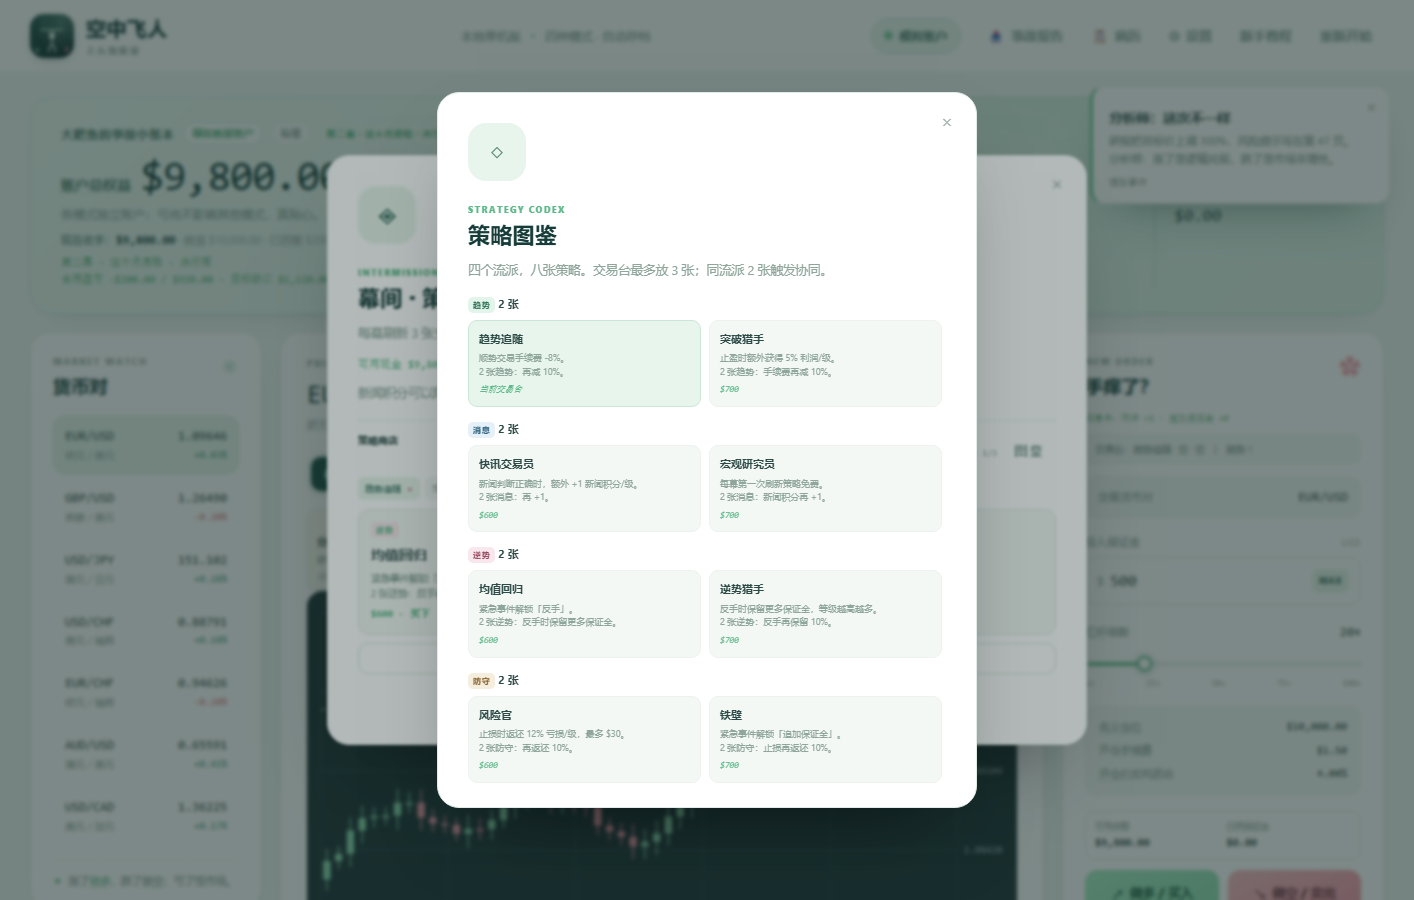
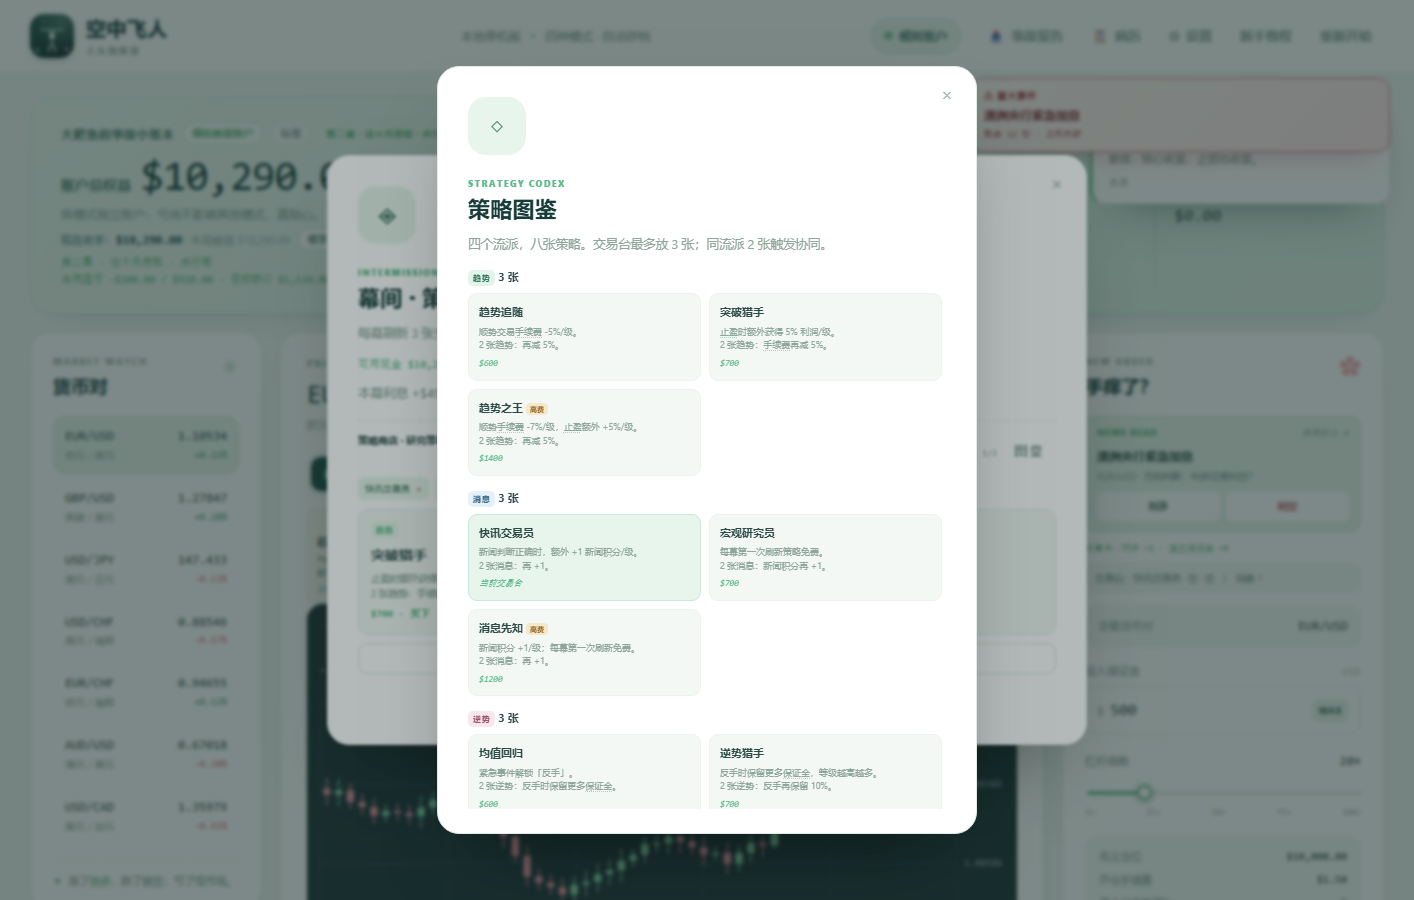
Add shop interest economy, research levels, and high-cost elite strategy pool

diff --git a/engine.js b/engine.js
@@ -181,6 +181,8 @@
         contract.playstyle.shopVisits += 1;
       }
       contract.act = nextAct;
+      contract.shopLevel = Math.min(3, nextAct);
+      if (contract.pendingShop) awardStrategyInterest();
     }
     contract.eventLog = contract.eventLog || [];
     contract.eventLog.push({
@@ -336,21 +338,41 @@
     return strategyDeckCards().filter(card => card.style === style).length;
   }
 
-  function drawStrategyCards(count, exclude = []) {
+  function strategyPrice(card) {
+    if (!card) return 0;
+    const discount = Math.min(300, (Number(state.contract?.newsPoints) || 0) * 50);
+    return Math.max(100, Number(card.cost) - discount);
+  }
+
+  function awardStrategyInterest() {
+    const contract = state.contract;
+    if (!contract || settings.coachMode || contract.interestAct === contract.act) return 0;
+    const interest = Math.min(500, Math.floor((state.cash * 0.05) / 10) * 10);
+    contract.interestAct = contract.act;
+    contract.lastInterest = interest;
+    if (interest <= 0) return 0;
+    state.cash += interest;
+    contract.giftIncome = (Number(contract.giftIncome) || 0) + interest;
+    return interest;
+  }
+
+  function strategyShopPool() {
+    const level = Math.max(1, Math.min(3, Number(state.contract?.shopLevel) || 1));
+    return (D.STRATEGY_CARDS || []).filter(card => {
+      if (level >= 3) return Number(card.tier) >= 2;
+      return Number(card.tier) <= 2;
+    });
+  }
+
+  function drawStrategyCards(count, exclude = [], poolCards = null) {
     const excluded = new Set(exclude);
-    const pool = (D.STRATEGY_CARDS || []).filter(card => !excluded.has(card.id));
+    const pool = (poolCards || D.STRATEGY_CARDS || []).filter(card => !excluded.has(card.id));
     const picked = [];
     while (picked.length < count && pool.length) {
       const index = Math.floor(Math.random() * pool.length);
       picked.push(pool.splice(index, 1)[0].id);
     }
     return picked;
-  }
-
-  function strategyPrice(card) {
-    if (!card) return 0;
-    const discount = Math.min(300, (Number(state.contract?.newsPoints) || 0) * 50);
-    return Math.max(100, Number(card.cost) - discount);
   }
 
   function chooseStartingStrategy(cardId) {
@@ -370,7 +392,7 @@
   function refreshStrategyOffers() {
     const contract = state.contract;
     if (!contract || settings.coachMode) return [];
-    contract.strategyOffers = drawStrategyCards(3, []);
+    contract.strategyOffers = drawStrategyCards(3, [], strategyShopPool());
     contract.strategyBought = false;
     save();
     emit();
@@ -383,7 +405,7 @@
     const cost = strategyFreeReroll() ? 0 : 100;
     if (state.cash < cost) return { ok: false, message: `刷新需要 $${cost}。` };
     state.cash -= cost;
-    contract.strategyOffers = drawStrategyCards(3, []);
+    contract.strategyOffers = drawStrategyCards(3, [], strategyShopPool());
     contract.strategyRerolls = (contract.strategyRerolls || 0) + 1;
     save();
     emit();
@@ -432,28 +454,38 @@
   }
 
   function strategyFeeDiscount() {
-    if (!strategyHasCard('trend-follow')) return 0;
-    const level = strategyLevel('trend-follow');
-    return Math.min(0.25, level * 0.05 + (strategyStyleCount('trend') >= 2 ? 0.05 : 0));
+    let rate = 0;
+    if (strategyHasCard('trend-follow')) rate += strategyLevel('trend-follow') * 0.05;
+    if (strategyHasCard('trend-apex')) rate += strategyLevel('trend-apex') * 0.07;
+    if (strategyStyleCount('trend') >= 2) rate += 0.05;
+    return Math.min(0.3, rate);
   }
 
   function strategyNewsBonus() {
-    if (!strategyHasCard('news-wire')) return 0;
-    return strategyLevel('news-wire') + (strategyStyleCount('news') >= 2 ? 1 : 0);
+    let points = 0;
+    if (strategyHasCard('news-wire')) points += strategyLevel('news-wire');
+    if (strategyHasCard('news-oracle')) points += strategyLevel('news-oracle');
+    if (strategyStyleCount('news') >= 2) points += 1;
+    return points;
   }
 
   function strategyDefenseRate() {
-    if (!strategyHasCard('defense-risk')) return 0;
-    return Math.min(0.4, strategyLevel('defense-risk') * 0.12 + (strategyStyleCount('defense') >= 2 ? 0.1 : 0));
+    let rate = 0;
+    if (strategyHasCard('defense-risk')) rate += strategyLevel('defense-risk') * 0.12;
+    if (strategyHasCard('defense-bunker')) rate += strategyLevel('defense-bunker') * 0.15;
+    if (strategyStyleCount('defense') >= 2) rate += 0.1;
+    return Math.min(0.5, rate);
   }
 
   function strategyTakeProfitBonus() {
-    if (!strategyHasCard('trend-break')) return 0;
-    return strategyLevel('trend-break') * 0.05;
+    let rate = 0;
+    if (strategyHasCard('trend-break')) rate += strategyLevel('trend-break') * 0.05;
+    if (strategyHasCard('trend-apex')) rate += strategyLevel('trend-apex') * 0.05;
+    return rate;
   }
 
   function strategyFreeReroll() {
-    return strategyHasCard('news-macro') && (state.contract?.strategyRerolls || 0) === 0;
+    return (strategyHasCard('news-macro') || strategyHasCard('news-oracle')) && (state.contract?.strategyRerolls || 0) === 0;
   }
 
   function strategyContrarianCount() {
@@ -462,8 +494,10 @@
 
   function strategyReverseKeep() {
     const synergy = strategyStyleCount('contrarian') >= 2 ? 0.1 : 0;
-    if (strategyHasCard('contrarian-fade')) return Math.min(0.85, 0.5 + strategyLevel('contrarian-fade') * 0.1 + synergy);
-    return Math.min(0.85, 0.5 + synergy);
+    let keep = 0.5 + synergy;
+    if (strategyHasCard('contrarian-fade')) keep += strategyLevel('contrarian-fade') * 0.1;
+    if (strategyHasCard('contrarian-ace')) keep += strategyLevel('contrarian-ace') * 0.12;
+    return Math.min(0.9, keep);
   }
 
   function contractGrade() {
@@ -598,6 +632,9 @@
       strategyOffers: [],
       strategyBought: false,
       strategyRerolls: 0,
+      shopLevel: 1,
+      lastInterest: 0,
+      interestAct: 0,
       playstyle: { newsTrades: 0, newsReads: 0, newsMisses: 0, stopCount: 0, longHolds: 0, allIn: 0, smallTrades: 0, shopVisits: 0, shopBuys: 0, blowups: 0 },
       startEquity: account().equity,
       goalAnnounced: false,
@@ -609,7 +646,7 @@
       flags: {}
     };
     if (!settings.coachMode && config.id !== 'free') {
-      state.contract.strategyStartOffers = drawStrategyCards(3, []);
+      state.contract.strategyStartOffers = drawStrategyCards(3, [], (D.STRATEGY_CARDS || []).filter(card => Number(card.tier) === 1));
     }
     state.leverage = Math.min(state.leverage, maxLeverage());
     if (settings.coachMode) {
@@ -677,10 +714,13 @@
       state.contract.strategyStartOffers = Array.isArray(state.contract.strategyStartOffers) ? state.contract.strategyStartOffers : [];
       state.contract.strategyOffers = Array.isArray(state.contract.strategyOffers) ? state.contract.strategyOffers : [];
       if (state.contract.strategyPending && !state.contract.strategyStartOffers.length) {
-        state.contract.strategyStartOffers = drawStrategyCards(3, state.contract.strategyDeck || []);
+        state.contract.strategyStartOffers = drawStrategyCards(3, state.contract.strategyDeck || [], (D.STRATEGY_CARDS || []).filter(card => Number(card.tier) === 1));
       }
       state.contract.strategyBought = !!state.contract.strategyBought;
       state.contract.strategyRerolls = Math.max(0, Number(state.contract.strategyRerolls) || 0);
+      state.contract.shopLevel = Math.max(1, Math.min(3, Math.floor(Number(state.contract.shopLevel) || 1)));
+      state.contract.lastInterest = Math.max(0, Number(state.contract.lastInterest) || 0);
+      state.contract.interestAct = Math.max(0, Math.floor(Number(state.contract.interestAct) || 0));
       state.contract.playstyle = state.contract.playstyle && typeof state.contract.playstyle === 'object'
         ? { newsTrades: 0, newsReads: 0, newsMisses: 0, stopCount: 0, longHolds: 0, allIn: 0, smallTrades: 0, shopVisits: 0, shopBuys: 0, blowups: 0, ...state.contract.playstyle }
         : { newsTrades: 0, newsReads: 0, newsMisses: 0, stopCount: 0, longHolds: 0, allIn: 0, smallTrades: 0, shopVisits: 0, shopBuys: 0, blowups: 0 };
@@ -1420,7 +1460,7 @@
       message = '使用对冲卡，平掉一半仓位。';
     } else if (action === 'margin') {
       const hasCard = contract.cards && (contract.cards.margin || 0) > 0;
-      const hasDefense = strategyHasCard('defense-fortress');
+      const hasDefense = strategyHasCard('defense-fortress') || strategyHasCard('defense-bunker');
       if (!hasCard && !hasDefense) return { ok: false, message: '没有追加保证金手段。' };
       if (state.cash < 100) return { ok: false, message: '现金不足 $100。' };
       const pos = positions[0];

diff --git a/ui.js b/ui.js
@@ -387,7 +387,7 @@
     addAction('close', '平仓避险', 'danger');
     if (E.strategyContrarianCount() > 0) addAction('reverse', '逆势反手', 'danger');
     addAction('hedge', `对冲卡 ×${cards.hedge || 0}`, '', !(cards.hedge > 0));
-    const hasDefense = E.strategyDeckCards().some(card => card.id === 'defense-fortress');
+    const hasDefense = E.strategyDeckCards().some(card => card.id === 'defense-fortress' || card.id === 'defense-bunker');
     addAction('margin', hasDefense && !(cards.margin > 0) ? '追加保证金（防守）' : `追加保证金 ×${cards.margin || 0}`, '', (!(cards.margin > 0) && !hasDefense) || E.state.cash < 100);
     addAction('hold', '硬扛', 'hold');
     $('emergencyModal').classList.remove('hidden');
@@ -478,7 +478,7 @@
         const owned = deck.has(card.id);
         const item = document.createElement('div');
         item.className = 'strategy-codex-card' + (owned ? ' owned' : '');
-        item.innerHTML = `<strong>${card.name}</strong><small>${card.desc}</small><em>${owned ? '当前交易台' : `$${card.cost}`}</em>`;
+        item.innerHTML = `<strong>${card.name}${card.tier === 3 ? ' <span class="strategy-tier">高费</span>' : ''}</strong><small>${card.desc}</small><em>${owned ? '当前交易台' : `$${card.cost}`}</em>`;
         grid.append(item);
       });
       section.append(grid);
@@ -498,9 +498,10 @@
     const offers = (contract.strategyOffers || []).length ? contract.strategyOffers : strategyOfferCache;
     if ((contract.strategyOffers || []).length) strategyOfferCache = contract.strategyOffers;
     else if (strategyOfferCache.length) contract.strategyOffers = [...strategyOfferCache];
-    const freeReroll = E.strategyDeckCards().some(card => card.id === 'news-macro') && (contract.strategyRerolls || 0) === 0;
+    const freeReroll = E.strategyDeckCards().some(card => card.id === 'news-macro' || card.id === 'news-oracle') && (contract.strategyRerolls || 0) === 0;
     const levelText = level => level > 1 ? ` ${'I'.repeat(level)}` : '';
-    root.innerHTML = `<div class="strategy-shop-head"><strong>策略商店</strong><span>交易台 ${deck.length}/3 <button type="button" id="strategyCodexBtn" class="text-button">图鉴</button></span></div>
+    const roman = ['', 'I', 'II', 'III'][Math.max(1, Math.min(3, Number(contract.shopLevel) || 1))];
+    root.innerHTML = `<div class="strategy-shop-head"><strong>策略商店 · 研究等级 ${roman}</strong><span>交易台 ${deck.length}/3 <button type="button" id="strategyCodexBtn" class="text-button">图鉴</button></span></div>
       <div class="strategy-shop-deck">${[0,1,2].map(i => deck[i] ? `<span>${deck[i].name}${levelText(deck[i].level)} <button type="button" class="strategy-sell" data-sell="${deck[i].id}" title="卖出">×</button></span>` : '<span class="empty">空槽</span>').join('')}</div>
       <div class="strategy-offers"></div>
       <button type="button" id="strategyReroll" class="outline-button strategy-reroll"${contract.strategyBought ? ' disabled' : ''}>刷新策略 · ${freeReroll ? '免费' : '$100'}</button>`;
@@ -1427,9 +1428,9 @@
     const cash = E.state.cash;
     $('shopCash').textContent = `可用现金 ${D.money(cash)}`;
     const points = Math.max(0, Number(contract?.newsPoints) || 0);
-    $('shopPerks').textContent = points
-      ? `新闻积分 ${points}：每点让策略卡便宜 $50（最多 -$300）。`
-      : '新闻积分可以降低策略卡价格。';
+    const interest = Math.max(0, Number(contract?.lastInterest) || 0);
+    const interestText = interest ? `本幕利息 +${D.money(interest)}（不计入合同盈亏）。` : '没有利息。';
+    $('shopPerks').textContent = `${interestText} 新闻积分 ${points}：每点让策略卡便宜 $50（最多 -$300）。`;
     $('shopList').classList.add('hidden');
     $('shopList').replaceChildren();
     renderStrategyShop();

diff --git a/data.js b/data.js
@@ -577,36 +577,52 @@
 
   const STRATEGY_CARDS = [
     {
-      id: 'trend-follow', name: '趋势追随', style: 'trend', styleLabel: '趋势', cost: 600,
-      desc: '顺势交易手续费 -8%。\n2 张趋势：再减 10%。'
+      id: 'trend-follow', name: '趋势追随', style: 'trend', styleLabel: '趋势', tier: 1, cost: 600,
+      desc: '顺势交易手续费 -5%/级。\n2 张趋势：再减 5%。'
     },
     {
-      id: 'trend-break', name: '突破猎手', style: 'trend', styleLabel: '趋势', cost: 700,
-      desc: '止盈时额外获得 5% 利润/级。\n2 张趋势：手续费再减 10%。'
+      id: 'trend-break', name: '突破猎手', style: 'trend', styleLabel: '趋势', tier: 2, cost: 700,
+      desc: '止盈时额外获得 5% 利润/级。\n2 张趋势：手续费再减 5%。'
     },
     {
-      id: 'news-wire', name: '快讯交易员', style: 'news', styleLabel: '消息', cost: 600,
+      id: 'trend-apex', name: '趋势之王', style: 'trend', styleLabel: '趋势', tier: 3, cost: 1400,
+      desc: '顺势手续费 -7%/级，止盈额外 +5%/级。\n2 张趋势：再减 5%。'
+    },
+    {
+      id: 'news-wire', name: '快讯交易员', style: 'news', styleLabel: '消息', tier: 1, cost: 600,
       desc: '新闻判断正确时，额外 +1 新闻积分/级。\n2 张消息：再 +1。'
     },
     {
-      id: 'news-macro', name: '宏观研究员', style: 'news', styleLabel: '消息', cost: 700,
+      id: 'news-macro', name: '宏观研究员', style: 'news', styleLabel: '消息', tier: 2, cost: 700,
       desc: '每幕第一次刷新策略免费。\n2 张消息：新闻积分再 +1。'
     },
     {
-      id: 'contrarian-revert', name: '均值回归', style: 'contrarian', styleLabel: '逆势', cost: 600,
+      id: 'news-oracle', name: '消息先知', style: 'news', styleLabel: '消息', tier: 3, cost: 1200,
+      desc: '新闻积分 +1/级；每幕第一次刷新免费。\n2 张消息：再 +1。'
+    },
+    {
+      id: 'contrarian-revert', name: '均值回归', style: 'contrarian', styleLabel: '逆势', tier: 1, cost: 600,
       desc: '紧急事件解锁「反手」。\n2 张逆势：反手时保留更多保证金。'
     },
     {
-      id: 'contrarian-fade', name: '逆势猎手', style: 'contrarian', styleLabel: '逆势', cost: 700,
+      id: 'contrarian-fade', name: '逆势猎手', style: 'contrarian', styleLabel: '逆势', tier: 2, cost: 700,
       desc: '反手时保留更多保证金，等级越高越多。\n2 张逆势：反手再保留 10%。'
     },
     {
-      id: 'defense-risk', name: '风险官', style: 'defense', styleLabel: '防守', cost: 600,
+      id: 'contrarian-ace', name: '逆势王牌', style: 'contrarian', styleLabel: '逆势', tier: 3, cost: 1300,
+      desc: '紧急事件反手，保留更多保证金。\n等级越高，保留越多。'
+    },
+    {
+      id: 'defense-risk', name: '风险官', style: 'defense', styleLabel: '防守', tier: 1, cost: 600,
       desc: '止损时返还 12% 亏损/级，最多 $30。\n2 张防守：再返还 10%。'
     },
     {
-      id: 'defense-fortress', name: '铁壁', style: 'defense', styleLabel: '防守', cost: 700,
+      id: 'defense-fortress', name: '铁壁', style: 'defense', styleLabel: '防守', tier: 2, cost: 700,
       desc: '紧急事件解锁「追加保证金」。\n2 张防守：止损再返还 10%。'
+    },
+    {
+      id: 'defense-bunker', name: '防守堡垒', style: 'defense', styleLabel: '防守', tier: 3, cost: 1200,
+      desc: '止损返还 15%/级；紧急事件可追加保证金。\n2 张防守：再返还 10%。'
     }
   ];
 

diff --git a/styles.css b/styles.css
@@ -612,6 +612,7 @@ body.coach-mode .news-prompt { display: none !important; }
 .strategy-shop-deck { display: flex; gap: 5px; margin-top: 7px; }
 .strategy-shop-deck span { padding: 4px 7px; border-radius: 6px; background: var(--tint-green); color: var(--green-text); font-size: 9px; }
 .strategy-sell { border: 0; background: transparent; color: var(--short-text); font-size: 10px; padding: 0 0 0 3px; }
+.strategy-tier { padding: 1px 4px; border-radius: 4px; background: #f5e7c9; color: #8a5b12; font-size: 7px; font-weight: 900; vertical-align: middle; }
 .strategy-shop-deck .empty { background: var(--surface-tint); color: var(--text-dim); }
 .strategy-offers { display: grid; grid-template-columns: repeat(3, minmax(0, 1fr)); gap: 7px; margin-top: 9px; }
 .strategy-reroll { width: 100%; margin-top: 8px; padding: 8px; font-size: 9px; color: var(--accent-deep); }

diff --git a/README.md b/README.md
@@ -165,28 +165,47 @@ node server.js
 
 困难模式签下合同后，先从 3 张起始策略里选 1 张。交易台最多 3 张策略卡。
 
-四类流派，每类 2 张，效果不重复：
+四类流派，共 12 张：每类 1 张基础、1 张进阶、1 张高费精英。
 
-| 流派 | 两张卡的分工 |
+| 流派 | 分工 |
 |---|---|
-| 趋势 | 趋势追随：顺势手续费降低；突破猎手：止盈额外利润 |
-| 消息 | 快讯交易员：新闻积分更多；宏观研究员：每幕第一次刷新免费 |
-| 逆势 | 均值回归：紧急事件反手；逆势猎手：反手保留更多保证金 |
-| 防守 | 风险官：止损返还；铁壁：紧急事件解锁追加保证金 |
+| 趋势 | 趋势追随降手续费；突破猎手止盈加成；趋势之王两者都吃 |
+| 消息 | 快讯交易员加新闻积分；宏观研究员免费刷新；消息先知两者都吃 |
+| 逆势 | 均值回归解锁反手；逆势猎手保留更多保证金；逆势王牌保留最多 |
+| 防守 | 风险官止损返还；铁壁追加保证金；防守堡垒两者都吃 |
 
 每张策略卡都带彩色流派标签：趋势、消息、逆势、防守。
 
 每幕事件结束后进入策略商店：
 
+- 第一次商店为 **研究等级 II**，第二次为 **研究等级 III**；
+- 等级 II 刷基础/进阶卡，等级 III 开始出现高费精英卡；
 - 随机刷 3 张策略，可能刷到已拥有策略；
 - 买一张进交易台，或升级已拥有的同名牌；
 - 同名牌可升到 **II / III**；
-- 刷新一次 $100，宏观研究员让每幕第一次刷新免费；
+- 刷新一次 $100，宏观研究员/消息先知让每幕第一次刷新免费；
 - 每幕只能买/升/卖一次；
 - 可以把交易台上的策略卖出，返还 50%；
 - 新闻积分每点让策略卡便宜 $50，最多 -$300；
 - 买卡直接扣现金，和保证金共用一笔钱；
-- 商店右上角的「图鉴」可以查看全部 8 张策略、费用和效果。
+- 商店右上角的「图鉴」可以查看全部 12 张策略、费用和效果。
+
+## 利息经济
+
+每幕结束进入商店时，按现金结算一次利息：
+
+```text
+利息 = 现金 × 5%，上限 $500
+```
+
+- 利息直接加进现金；
+- 利息不计入合同盈亏，不会帮你完成房租/还债目标；
+- 利息在进入商店时结算，刷新和买卡花的是结算后的现金；
+- 跳不跳商店都会结算，但只有困难模式的策略商店有。
+
+这形成一个取舍：
+
+> 现在买卡提升下一幕，还是留着现金吃利息、等第二商店买高费精英？
 
 开局自带 1 张对冲卡；策略卡进交易台后会显示在“应急卡/交易台”区域，并在紧急事件里提供额外动作。
 
